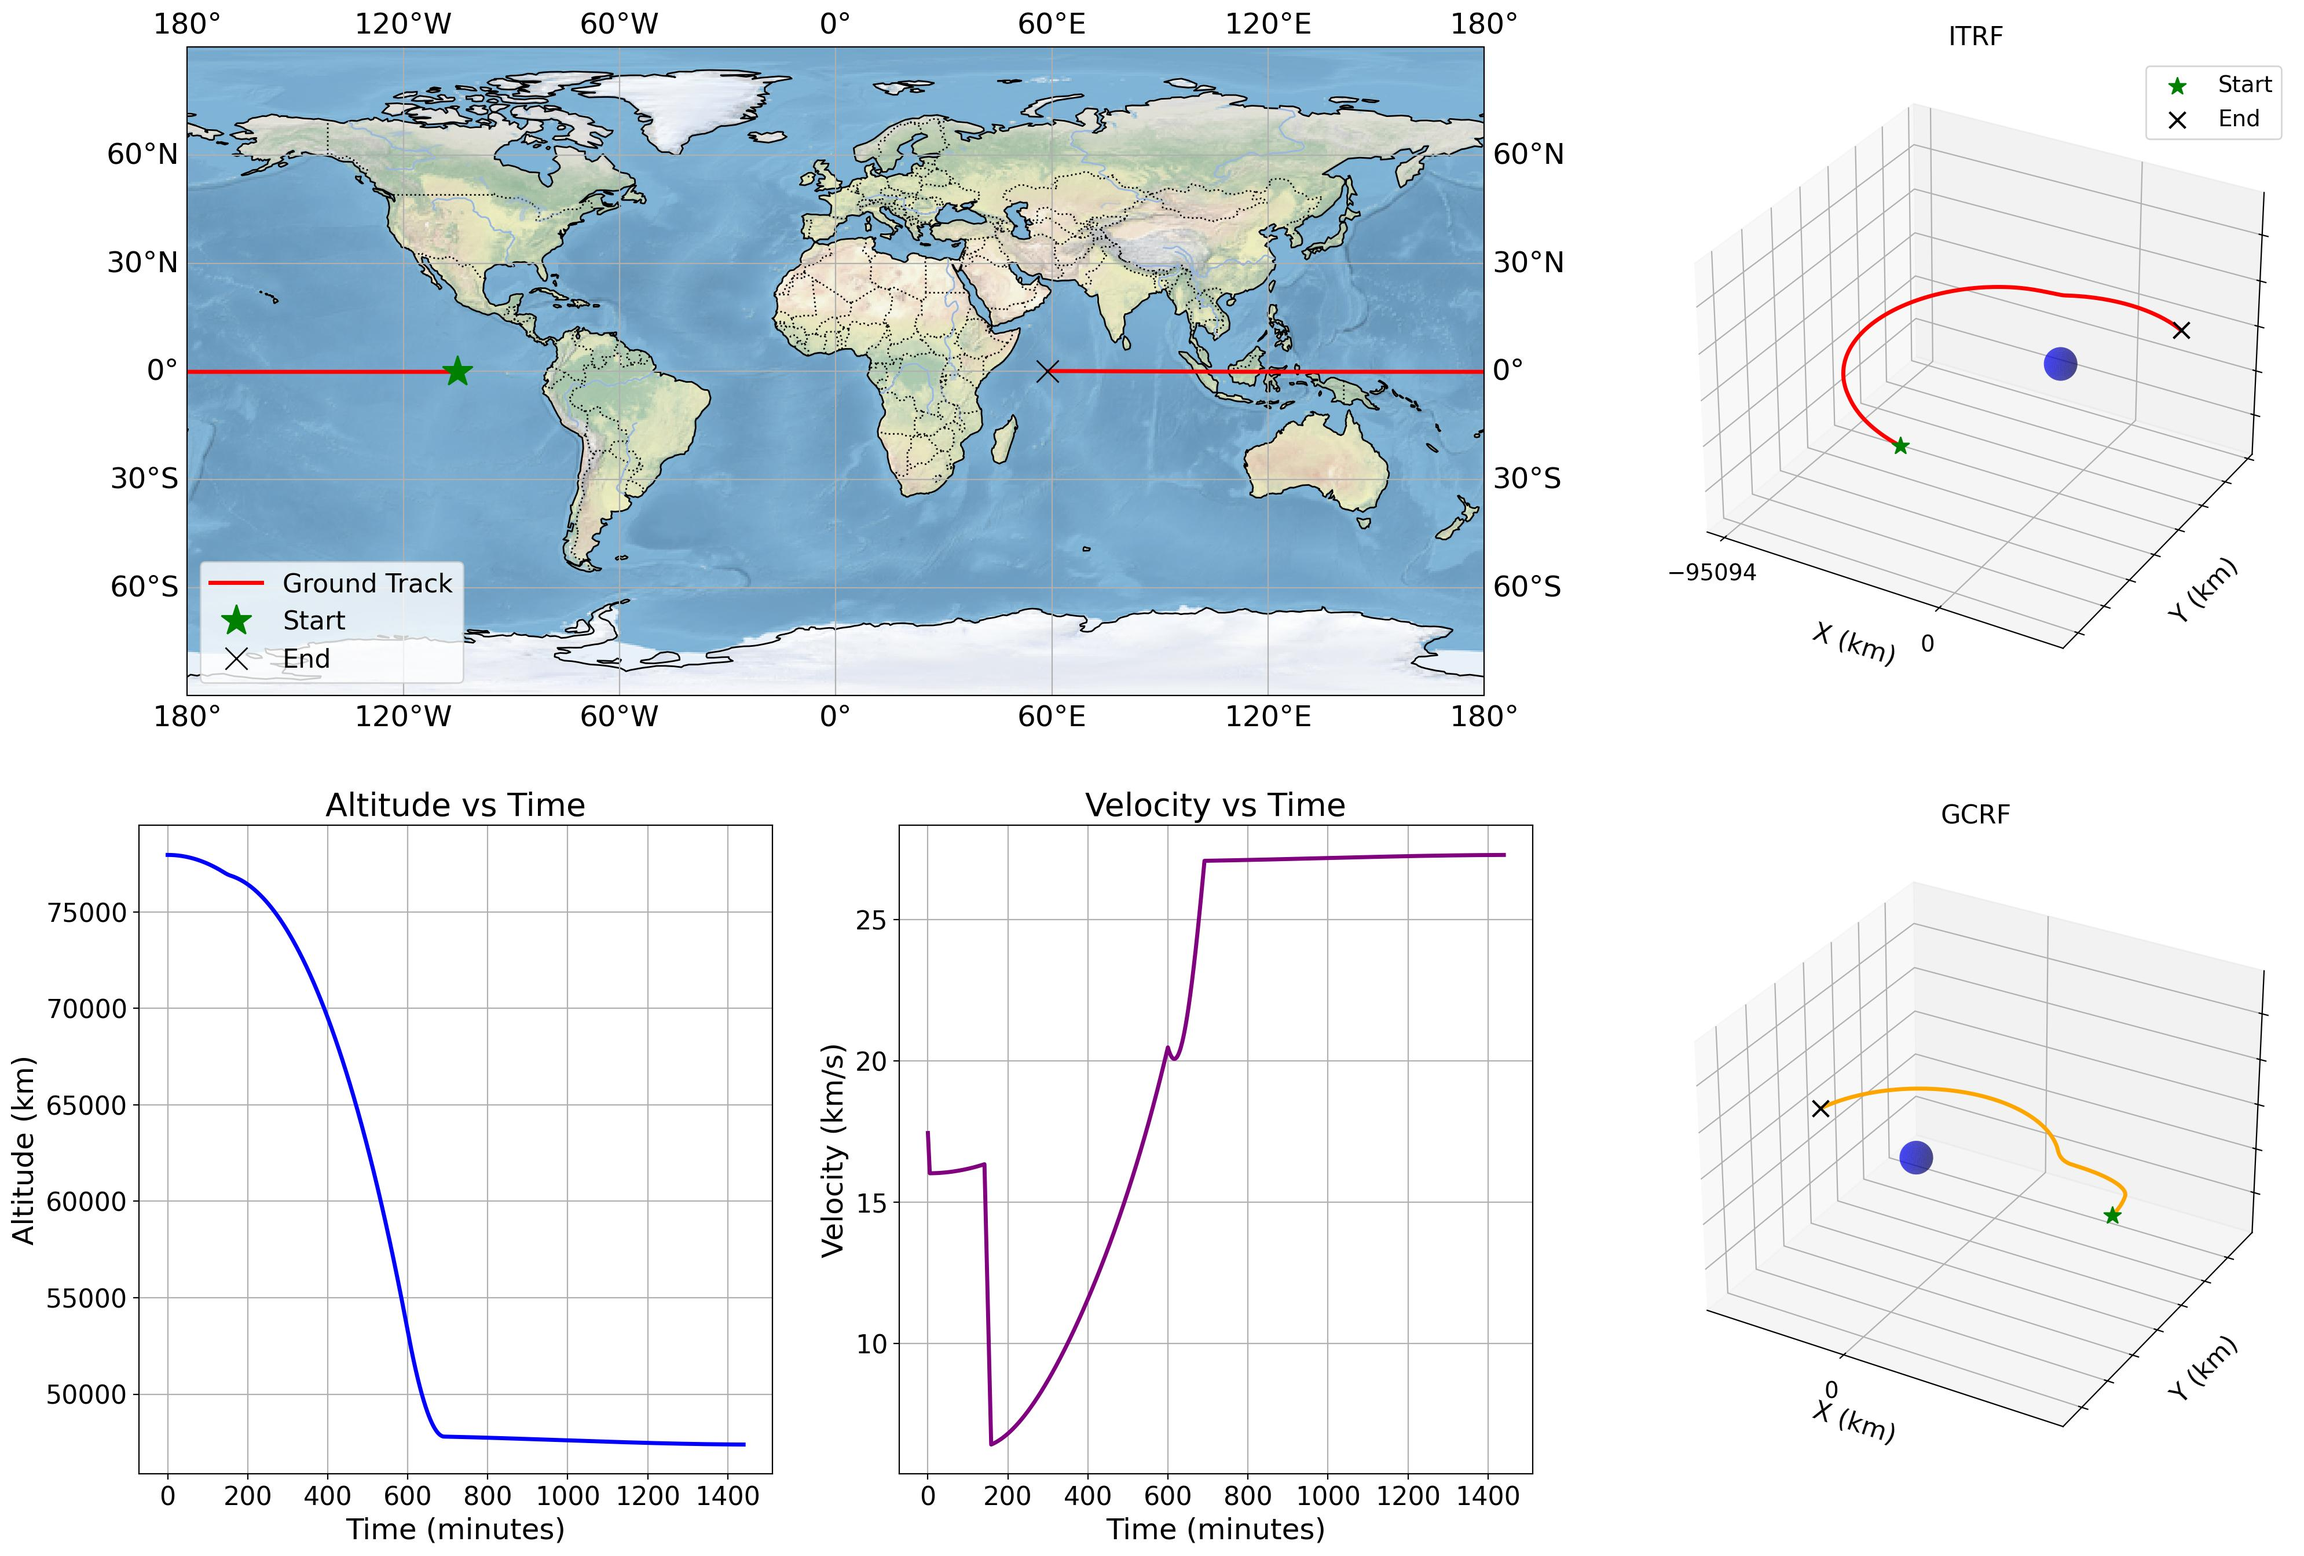
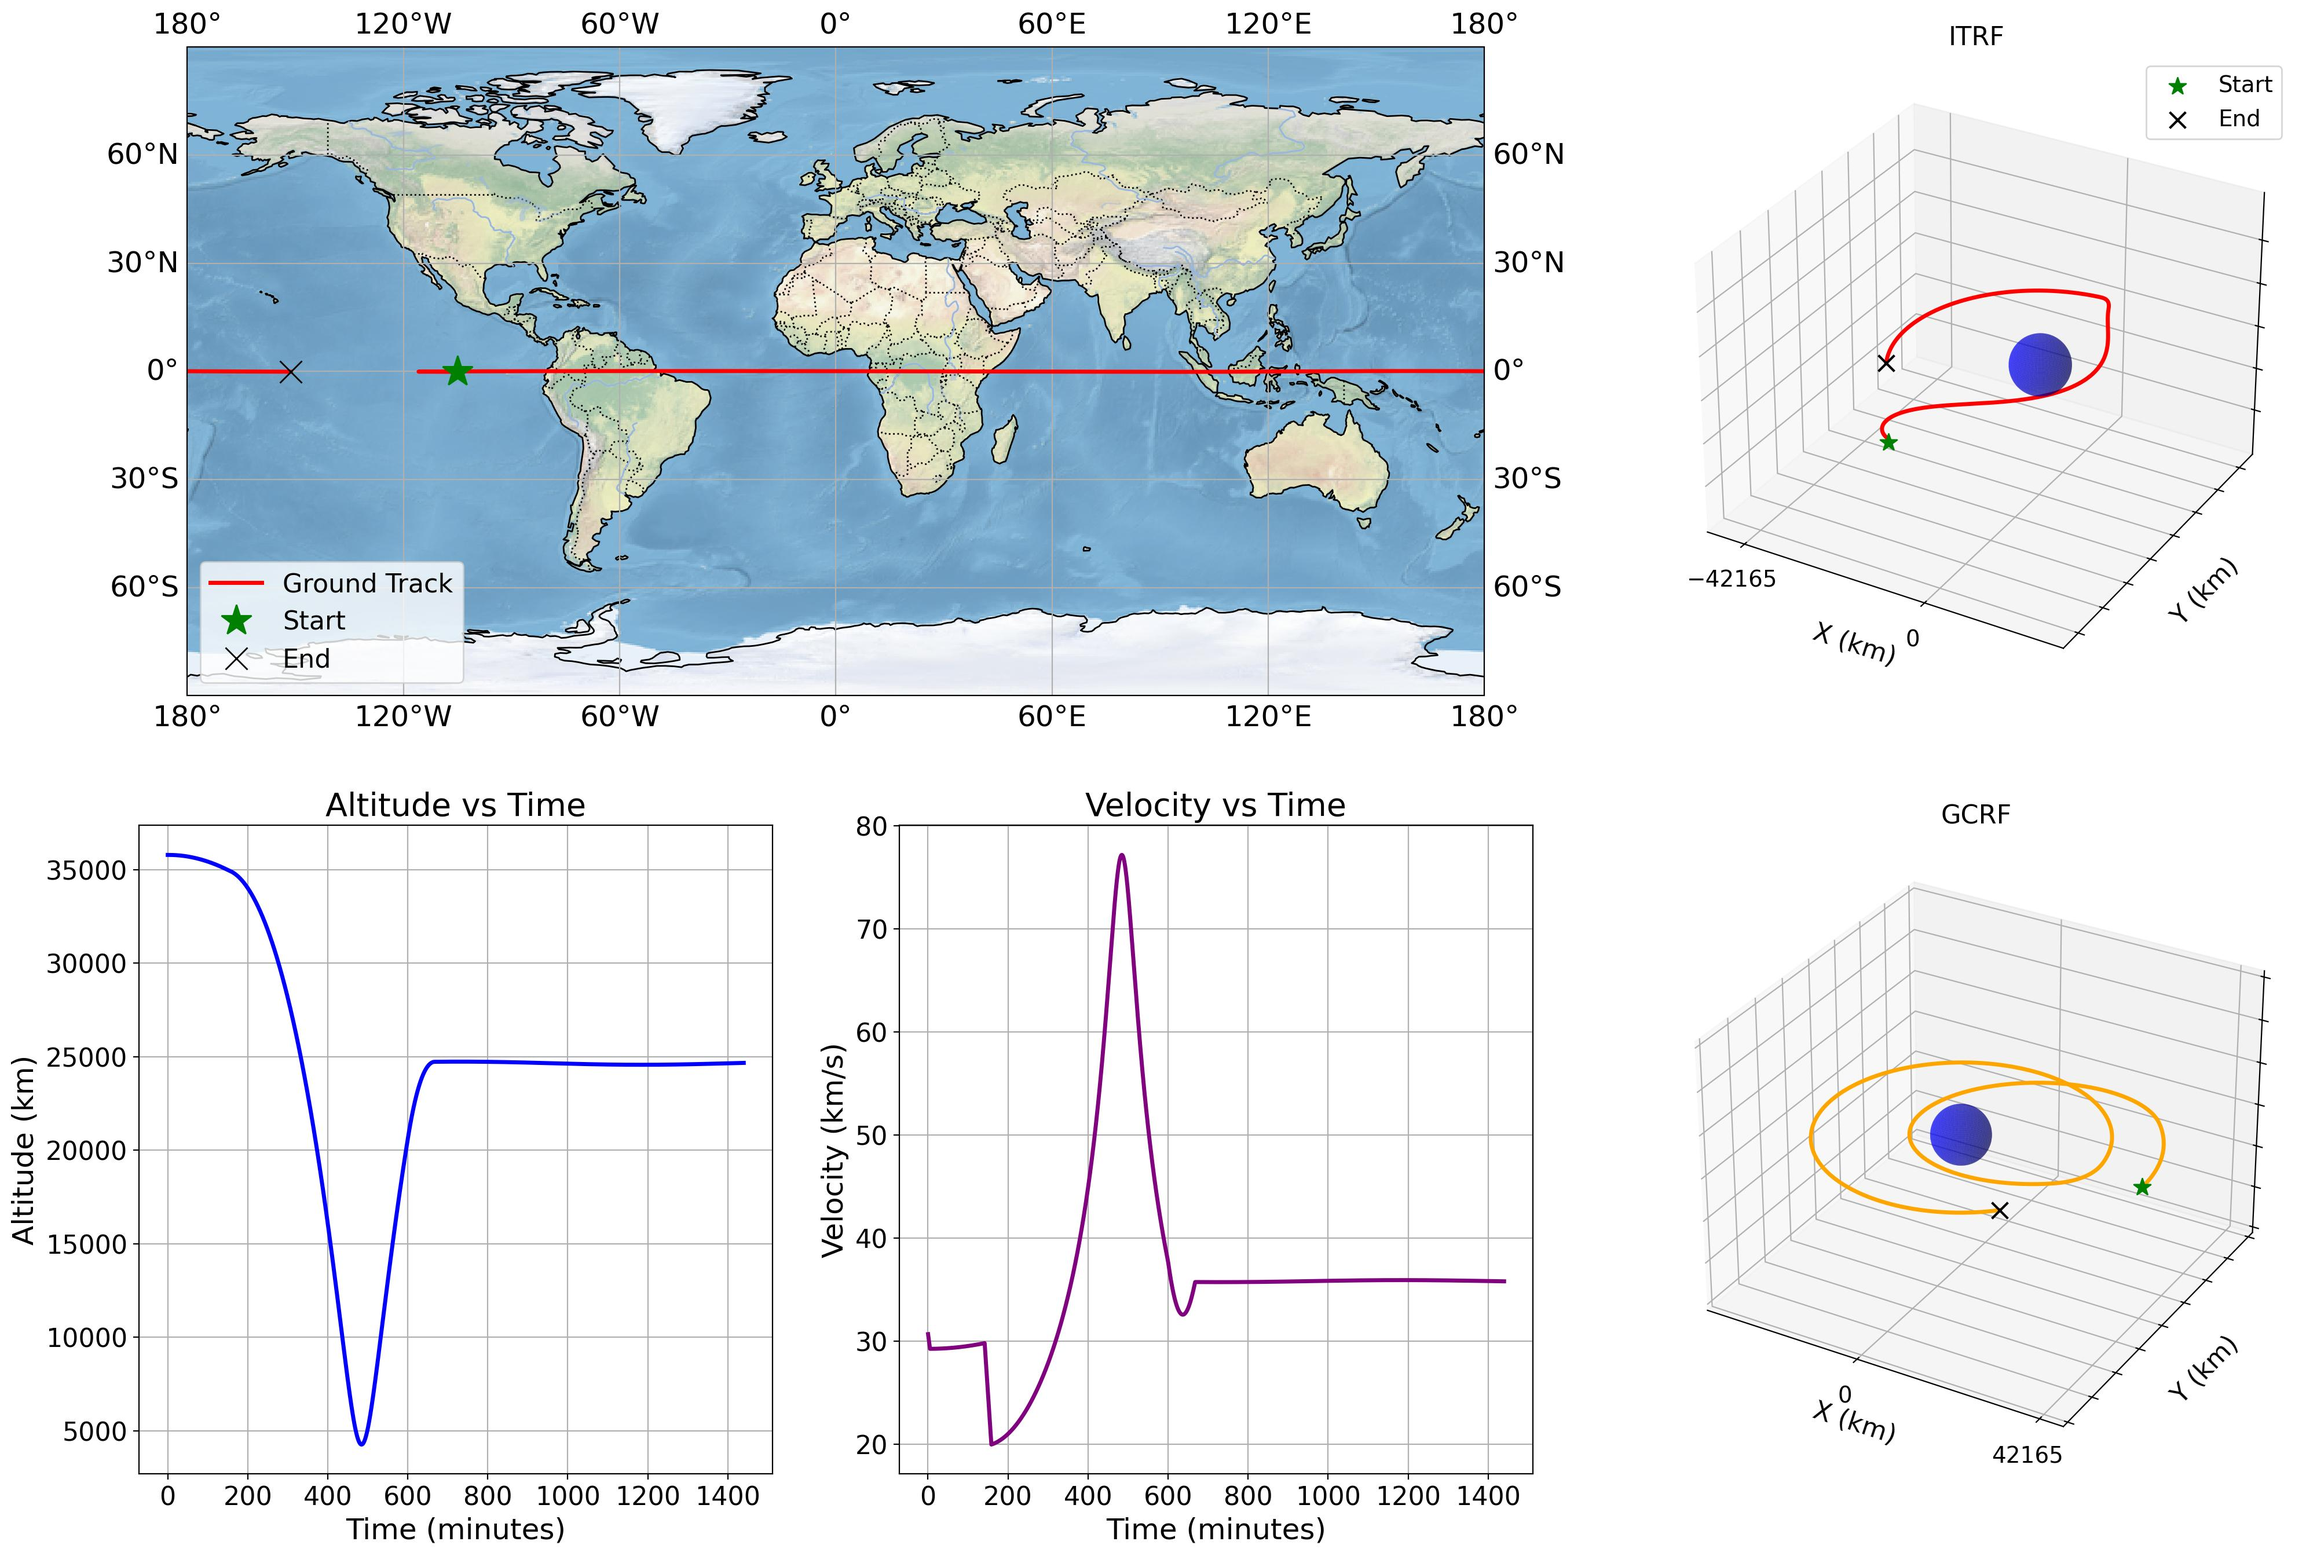
changed get_moon and get_sun in accel

diff --git a/yeager_utils/accelerations/accel_earth_harmonics.py b/yeager_utils/accelerations/accel_earth_harmonics.py
@@ -1,76 +1,142 @@
 import numpy as np
 from ..constants import EARTH_MU, EARTH_RADIUS
 
+def _check_r_safe(r2: float) -> None:
+    """Raise error if r is below Earth's surface."""
+    if np.sqrt(r2) < EARTH_RADIUS:
+        raise ValueError(f"r magnitude ({np.sqrt(r2):.2f} m) is below Earth's surface.")
 
-def accel_earth_harmonics(r: np.ndarray) -> np.ndarray:
-    """
-    Zonal-harmonic gravity (J2–J5) computed directly in GCRF.
-
-    Parameters
-    ----------
-    r : ndarray, shape (3,)
-        Satellite position vector in GCRF (m), Earth-centered.
-
-    Returns
-    -------
-    a : ndarray, shape (3,)
-        Total gravitational acceleration including J2–J5 (m/s²).
-    """
-    # Earth's zonal coefficients
+def accel_J2(r: np.ndarray) -> np.ndarray:
     J2 = 1.08262668e-3
-    J3 = -2.5324105e-6
-    J4 = -1.6198976e-6
-    J5 = -2.272960828e-7
-
-    # Earth spin axis in GCRF (unit Z)
-    k = np.array([0.0, 0.0, 1.0])
-
-    # Precompute norms and dot products
-    r2 = np.dot(r, r)
-    r_mag = np.sqrt(r2)
-    inv_r = 1.0 / r_mag
-    inv_r2 = inv_r * inv_r
-    inv_r3 = inv_r * inv_r2
-    u = np.dot(r, k) * inv_r     # cos(theta) = (r·k)/r
-
-    # Central term
-    a = -EARTH_MU * inv_r3 * r
-
-    # Helper: repeated factors
     mu = EARTH_MU
     Re = EARTH_RADIUS
 
-    # Legendre polynomials Pn(u) and derivatives Pn'(u)
-    P2 = 0.5*(3*u*u - 1)
-    dP2 = 3*u
+    r2 = np.dot(r, r)
+    _check_r_safe(r2)
+    r_mag = np.sqrt(r2)
+    inv_r5 = 1.0 / (r2 * r_mag**3)
+    z = r[2]
+    u = z / r_mag
+    k2 = 5 * u**2 - 1
 
-    P3 = 0.5*(5*u**3 - 3*u)
-    dP3 = 0.5*(15*u*u - 3)
+    factor2 = 1.5 * J2 * mu * Re**2 * inv_r5
+    return factor2 * np.array([r[0] * k2, r[1] * k2, r[2] * (5 * u**2 - 3)])
 
-    P4 = (1/8)*(35*u**4 - 30*u*u + 3)
-    dP4 = (1/8)*(140*u**3 - 60*u)
+def accel_J3(r: np.ndarray) -> np.ndarray:
+    J3 = -2.5324105e-6
+    mu = EARTH_MU
+    Re = EARTH_RADIUS
 
-    P5 = (1/8)*(63*u**5 - 70*u**3 + 15*u)
-    dP5 = (1/8)*(315*u**4 - 210*u**2 + 15)
+    r2 = np.dot(r, r)
+    _check_r_safe(r2)
+    r_mag = np.sqrt(r2)
+    inv_r6 = 1.0 / (r2 * r2 * r2)  # r2**3 = r_mag**6
+    z = r[2]
+    u = z / r_mag
 
-    # Generic nth term contribution: 
-    #   a_n = mu * Jn * (Re^n) / r^(n+2) * [ (n+1) Pn(u) r  -  dPn(u) r * (r·k) * k/r  ]
-    # but simplified below for each n:
+    P3 = 0.5 * (5 * u**3 - 3 * u)
+    dP3 = 0.5 * (15 * u**2 - 3)
+    factor3 = -mu * J3 * Re**3 * inv_r6
+    return factor3 * (4 * P3 * r - dP3 * r * u * np.array([0, 0, 1]))
 
-    # J2 term
-    factor2 = mu * J2 * Re**2 * inv_r**4
-    a += factor2 * (3*P2 * r - dP2 * r_mag * u * k)
+def accel_J4(r: np.ndarray) -> np.ndarray:
+    J4 = -1.6198976e-6
+    mu = EARTH_MU
+    Re = EARTH_RADIUS
 
-    # J3 term
-    factor3 = mu * J3 * Re**3 * inv_r**5
-    a += factor3 * (4*P3 * r - dP3 * r_mag * u * k)
+    r2 = np.dot(r, r)
+    _check_r_safe(r2)
+    r_mag = np.sqrt(r2)
+    inv_r7 = 1.0 / (r2 * r2 * r_mag**3)
+    z = r[2]
+    u = z / r_mag
 
-    # J4 term
-    factor4 = mu * J4 * Re**4 * inv_r**6
-    a += factor4 * (5*P4 * r - dP4 * r_mag * u * k)
+    P4 = (1 / 8) * (35 * u**4 - 30 * u**2 + 3)
+    dP4 = (1 / 8) * (140 * u**3 - 60 * u)
+    factor4 = -mu * J4 * Re**4 * inv_r7
+    return factor4 * (5 * P4 * r - dP4 * r * u * np.array([0, 0, 1]))
 
-    # J5 term
-    factor5 = mu * J5 * Re**5 * inv_r**7
-    a += factor5 * (6*P5 * r - dP5 * r_mag * u * k)
+def accel_J5(r: np.ndarray) -> np.ndarray:
+    J5 = -2.272960828e-7
+    mu = EARTH_MU
+    Re = EARTH_RADIUS
 
-    return a
+    r2 = np.dot(r, r)
+    _check_r_safe(r2)
+    r_mag = np.sqrt(r2)
+    inv_r9 = 1.0 / (r2 * r2 * r2 * r2 * r_mag)
+    z = r[2]
+    u = z / r_mag
+
+    P5 = (1 / 8) * (63 * u**5 - 70 * u**3 + 15 * u)
+    dP5 = (1 / 8) * (315 * u**4 - 210 * u**2 + 15)
+    factor5 = -mu * J5 * Re**5 * inv_r9
+    return factor5 * (6 * P5 * r - dP5 * r * u * np.array([0, 0, 1]))
+
+def accel_J6(r: np.ndarray) -> np.ndarray:
+    J6 = 5.406812391e-7
+    mu = EARTH_MU
+    Re = EARTH_RADIUS
+
+    r2 = np.dot(r, r)
+    _check_r_safe(r2)
+    r_mag = np.sqrt(r2)
+    inv_r10 = 1.0 / (r2 * r2 * r2 * r2 * r_mag**2)
+    z = r[2]
+    u = z / r_mag
+
+    P6 = (1 / 16) * (231 * u**6 - 315 * u**4 + 105 * u**2 - 5)
+    dP6 = (1 / 16) * (1386 * u**5 - 1260 * u**3 + 210 * u)
+    factor6 = -mu * J6 * Re**6 * inv_r10
+    return factor6 * (7 * P6 * r - dP6 * r * u * np.array([0, 0, 1]))
+
+def accel_J7(r: np.ndarray) -> np.ndarray:
+    J7 = -3.529000898e-7  # Corrected from 1.977000898e-7
+    mu = EARTH_MU
+    Re = EARTH_RADIUS
+
+    r2 = np.dot(r, r)
+    _check_r_safe(r2)
+    r_mag = np.sqrt(r2)
+    inv_r11 = 1.0 / (r2 * r2 * r2 * r2 * r_mag**3)
+    z = r[2]
+    u = z / r_mag
+
+    P7 = (1 / 16) * (429 * u**7 - 693 * u**5 + 315 * u**3 - 35 * u)
+    dP7 = (1 / 16) * (3003 * u**6 - 3465 * u**4 + 945 * u**2 - 35)
+    factor7 = -mu * J7 * Re**7 * inv_r11
+    return factor7 * (8 * P7 * r - dP7 * r * u * np.array([0, 0, 1]))
+
+def accel_J8(r: np.ndarray) -> np.ndarray:
+    J8 = 2.532000898e-7  # Corrected from 5.406812391e-8
+    mu = EARTH_MU
+    Re = EARTH_RADIUS
+
+    r2 = np.dot(r, r)
+    _check_r_safe(r2)
+    r_mag = np.sqrt(r2)
+    inv_r12 = 1.0 / (r2 * r2 * r2 * r2 * r2 * r_mag**2)
+    z = r[2]
+    u = z / r_mag
+
+    P8 = (1 / 128) * (6435 * u**8 - 12012 * u**6 + 6930 * u**4 - 1260 * u**2 + 35)
+    dP8 = (1 / 128) * (51480 * u**7 - 72072 * u**5 + 27720 * u**3 - 2520 * u)
+    factor8 = -mu * J8 * Re**8 * inv_r12
+    return factor8 * (9 * P8 * r - dP8 * r * u * np.array([0, 0, 1]))
+
+def accel_earth_harmonics(r: np.ndarray) -> np.ndarray:
+    r2 = np.dot(r, r)
+    _check_r_safe(r2)
+    r_mag = np.sqrt(r2)
+    a_central = -EARTH_MU * r / (r_mag**3)
+
+    return (
+        a_central
+        + accel_J2(r)
+        + accel_J3(r)
+        + accel_J4(r)
+        + accel_J5(r)
+        + accel_J6(r)
+        + accel_J7(r)
+        + accel_J8(r)
+    )

diff --git a/yeager_utils/accelerations/accel_moon.py b/yeager_utils/accelerations/accel_moon.py
@@ -1,7 +1,7 @@
 import numpy as np
 from astropy.time import Time
 from astropy import units as u
-from astropy.coordinates import get_moon, GCRS
+from astropy.coordinates import get_body, GCRS, solar_system_ephemeris
 
 from ..constants import MOON_MU
 from ..time import to_gps
@@ -9,14 +9,14 @@ from ..time import to_gps
 
 def accel_point_moon(r: np.ndarray, time) -> np.ndarray:
     """
-    Point‐mass lunar gravity in GCRF, given raw_time (same input as leapfrog)
-    and the GPS‐seconds of the initial epoch.
+    Point-mass lunar gravity in GCRF, given raw_time (same input as leapfrog)
+    and the GPS-seconds of the initial epoch.
 
     Parameters
     ----------
     r : array_like, shape (3,)
-        Satellite position vector in GCRF (m), Earth‐centered.
-    raw_time : float or datetime-like or array_like
+        Satellite position vector in GCRF (m), Earth-centered.
+    time : float or datetime-like or array_like
         The time array element from leapfrog (same type you passed into leapfrog).
 
     Returns
@@ -24,15 +24,16 @@ def accel_point_moon(r: np.ndarray, time) -> np.ndarray:
     a_moon : ndarray, shape (3,)
         Acceleration from the Moon (m/s²).
     """
-    # 1) Convert whatever raw_time is into GPS seconds since 1980-01-06
-    time_gps = to_gps(time)  # scalar or array element
-    # 2) Build an Astropy Time in GPS scale
+    # 1) Convert time to GPS seconds since 1980-01-06
+    time_gps = to_gps(time)
     t = Time(time_gps, format="gps", scale="utc")
 
-    # 3) Get the Moon’s GCRS position at that GPS‐time
-    moon_gcrs = get_moon(t).transform_to(GCRS(obstime=t))
+    # 2) Get Moon position in GCRS at this time using JPL ephemeris
+    with solar_system_ephemeris.set('jpl'):
+        moon_gcrs = get_body("moon", t).transform_to(GCRS(obstime=t))
+
     r_moon = moon_gcrs.cartesian.xyz.to(u.m).value
 
-    # 4) Compute δ = r_moon − r_sat and return μ δ / |δ|^3
+    # 3) Compute delta and gravitational acceleration
     delta = r_moon - r
     return MOON_MU * delta / np.linalg.norm(delta) ** 3

diff --git a/yeager_utils/accelerations/accel_sun.py b/yeager_utils/accelerations/accel_sun.py
@@ -1,7 +1,7 @@
 import numpy as np
 from astropy.time import Time
 from astropy import units as u
-from astropy.coordinates import get_sun, GCRS
+from astropy.coordinates import get_body, GCRS, solar_system_ephemeris
 
 from ..constants import SUN_MU
 from ..time import to_gps
@@ -9,12 +9,12 @@ from ..time import to_gps
 
 def accel_point_sun(r: np.ndarray, time) -> np.ndarray:
     """
-    Point‐mass solar gravity in GCRF, given raw_time (same input as leapfrog).
+    Point-mass solar gravity in GCRF, given raw_time (same input as leapfrog).
 
     Parameters
     ----------
     r : array_like, shape (3,)
-        Satellite position vector in GCRF (m), Earth‐centered.
+        Satellite position vector in GCRF (m), Earth-centered.
     time : float or datetime-like or array_like
         The time array element from leapfrog (same type you passed into leapfrog).
 
@@ -25,13 +25,14 @@ def accel_point_sun(r: np.ndarray, time) -> np.ndarray:
     """
     # 1) Convert time to GPS seconds
     time_gps = to_gps(time)
-    # 2) Build Astropy Time in GPS scale
     t = Time(time_gps, format="gps", scale="utc")
 
-    # 3) Get the Sun’s GCRS position at that GPS‐time
-    sun_gcrs = get_sun(t).transform_to(GCRS(obstime=t))
+    # 2) Get Sun position in GCRS at this time using JPL ephemeris
+    with solar_system_ephemeris.set('jpl'):
+        sun_gcrs = get_body("sun", t).transform_to(GCRS(obstime=t))
+
     r_sun = sun_gcrs.cartesian.xyz.to(u.m).value
 
-    # 4) Compute δ = r_sun − r_sat and return μ δ / |δ|^3
+    # 3) Compute delta and gravitational acceleration
     delta = r_sun - r
     return SUN_MU * delta / np.linalg.norm(delta) ** 3

diff --git a/demos/maneuver_accel_leapfrog.py b/demos/maneuver_accel_leapfrog.py
@@ -1,13 +1,11 @@
 import numpy as np
 import astropy.units as u
-from yeager_utils import leapfrog, accel_deltav, groundtrack_dashboard, surface_rv, launch_pads, RGEO, VGEO, EARTH_MU, hkoe, kepler_to_state
+from yeager_utils import leapfrog, accel_point_earth, accel_earth_harmonics, accel_deltav, groundtrack_dashboard, surface_rv, launch_pads, RGEO, VGEO, EARTH_MU, hkoe, kepler_to_state
 
 # r0 = [42164e3, 0, 0]  # GEO radius in meters
 # v0 = [0, np.sqrt(EARTH_MU / 42164e3), 0]  # Circular velocity
-a, e, i, pa, raan, ta = hkoe(10 * RGEO, 0.8, 0, 0, 0, 0)
-print(a, e, i, pa, raan, ta)
+a, e, i, pa, raan, ta = hkoe(1 * RGEO, 0.0, 0, 0, 0, 0)
 r0, v0 = kepler_to_state(a, e, i, pa, raan, ta)
-print(r0, v0)
 t = np.arange(0, 3600 * 24 * 1, 10)  # 6 hours, 10s steps
 
 profile1 = accel_deltav(dv=-200.0, thrust_accel=0.5, center_idx=100)
@@ -18,10 +16,11 @@ r, v = leapfrog(
     r0,
     v0,
     t,
-    accel=accel_earth_harmonics,
+    accel=accel_point_earth,
     velocity=profiles,
     circular=[0.5, 600*60]
 )
 
-print(r, v)
+print(r[-1], v[-1])
+
 groundtrack_dashboard(r[:, 0], r[:, 1], r[:, 2], t, save_path="/home/yeager7/yeager_utils/demos/images/testing_leapfrog_maneuvers.jpg")
